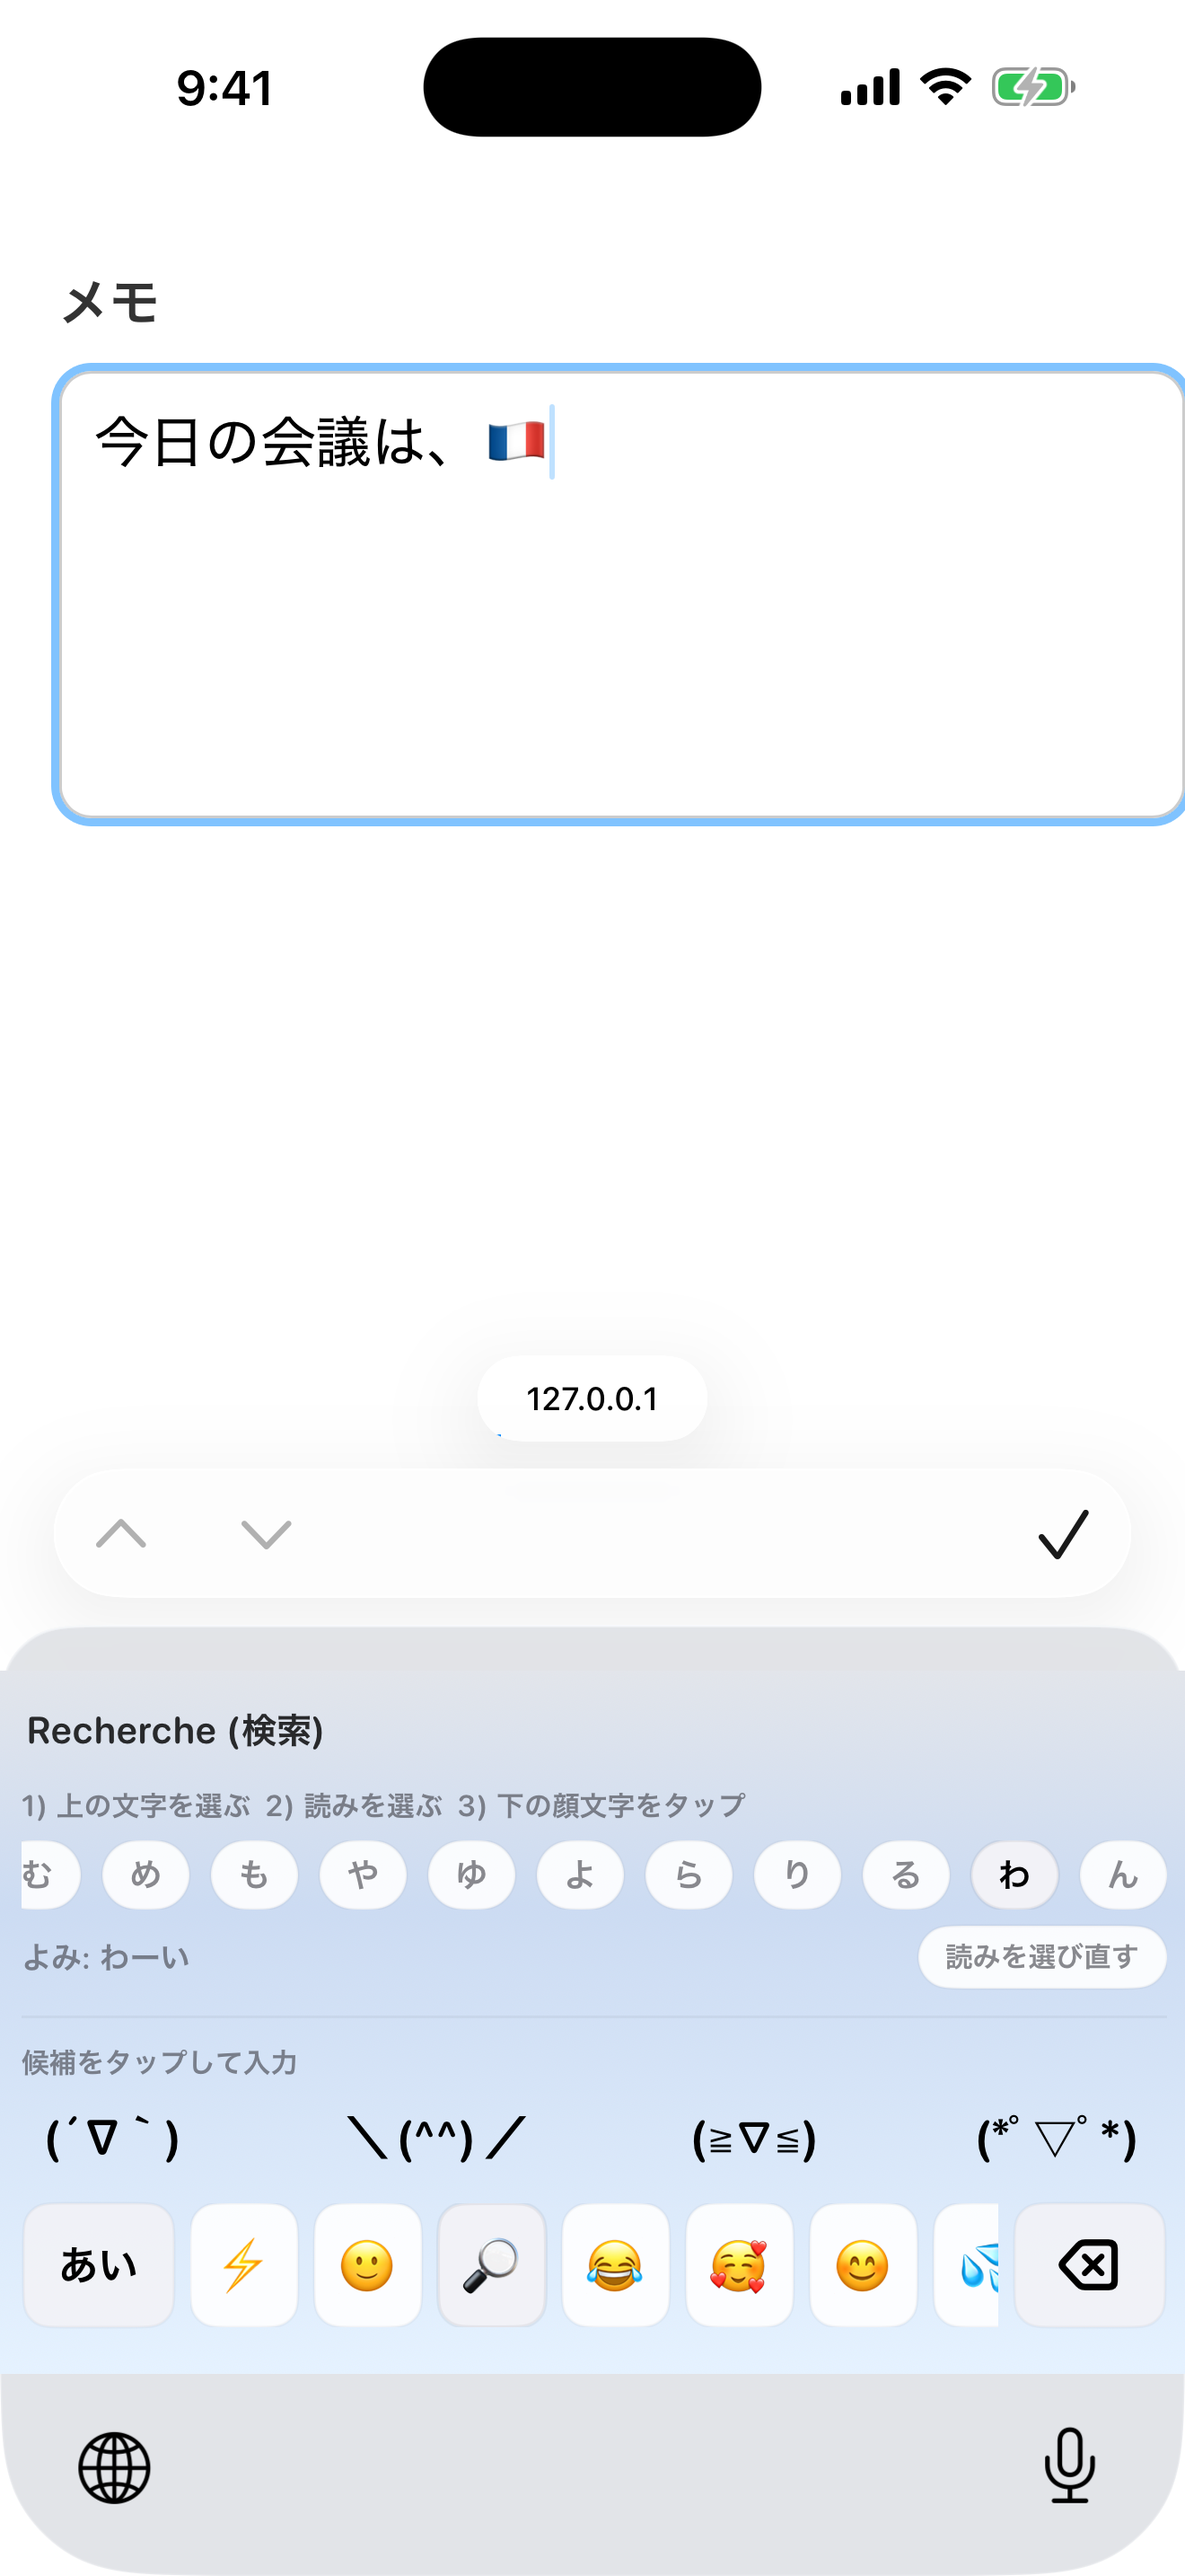
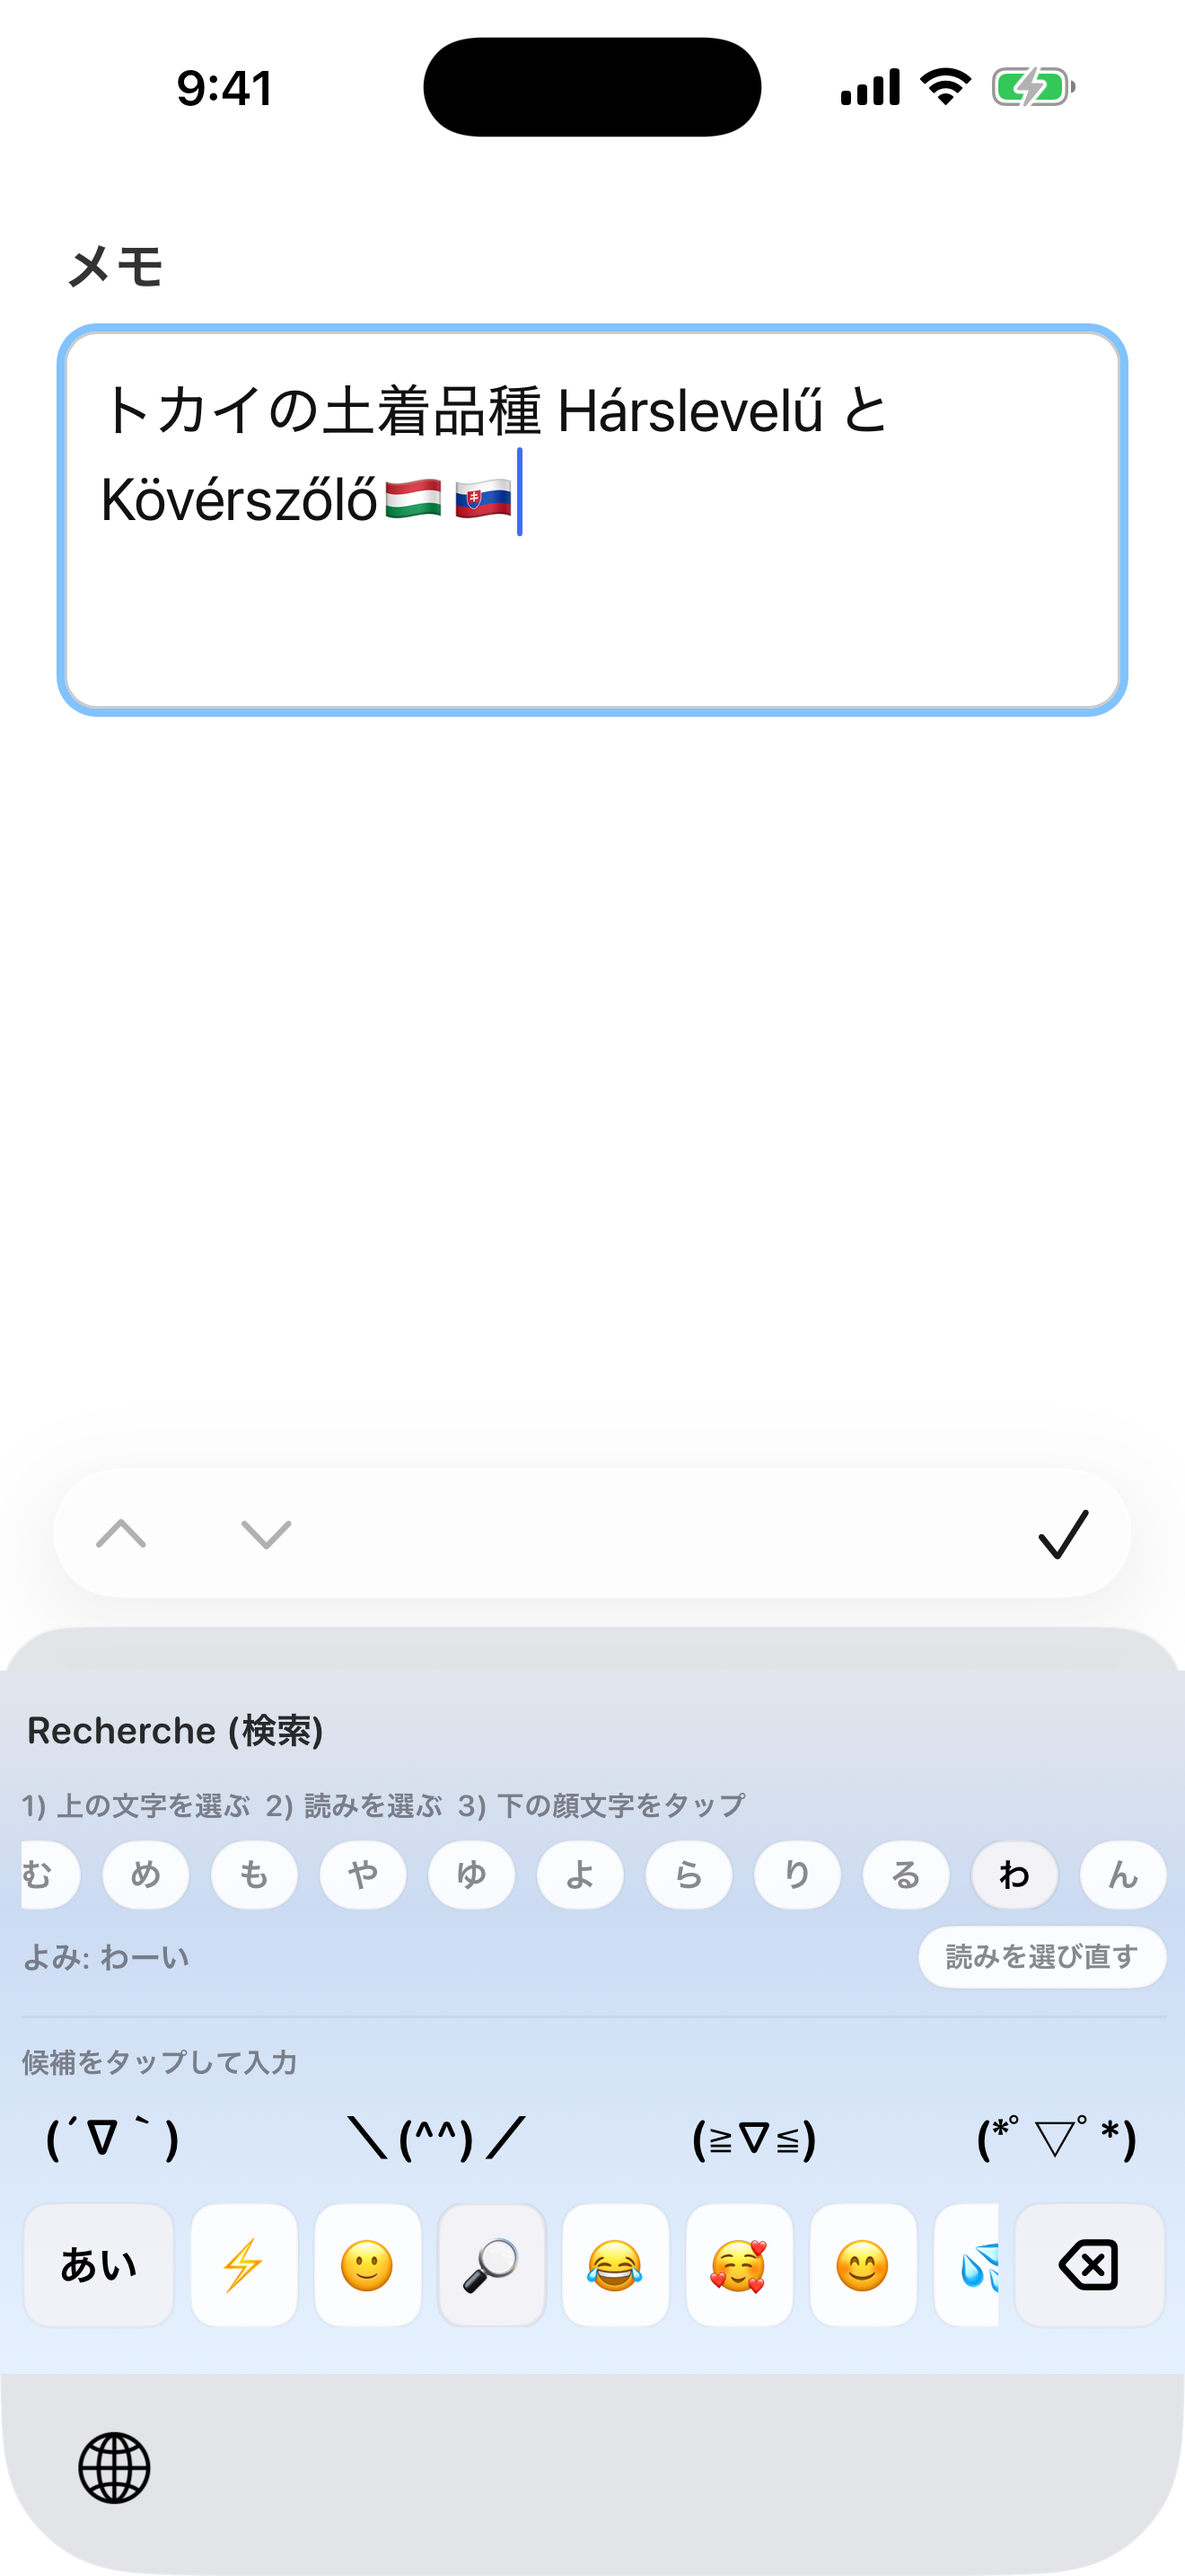
docs(appstore): スクリーンショット6枚を撮り直し(Safari UI・見切れ・マイクを排除)
- ホーム画面に追加した capture-page.html から起動し、127.0.0.1 のピルと Safari の
  ツールバーが写らない状態で撮影。box-sizing 修正でメモ欄の見切れも解消
- 03 は本文に🇭🇺を入れたうえで🇸🇰を長押しし、入力できることとバブルの両方を1枚に
- 05 はカレンダーから単位へ変更(36 200 000 hℓ)。ファイル名も 05-number-unit.png に
- 02 はピンク背景・Apple式フリック・前置修飾・アヒルのキーの状態で撮影(ユーザー指定)
- 撮影時だけ変えた設定は撮影後に既定へ戻した。内訳を計画書に記載

Changed region(s): [[0.0311, 0.0931, 1.0, 0.3414], [0.8697, 0.931, 0.9318, 0.962], [0.497, 0.5275, 0.528, 0.5586]]

diff --git a/appstore/screenshots-plan.md b/appstore/screenshots-plan.md
@@ -8,74 +8,31 @@
 
 ## 撮影手順(シミュレータ)
 
-1. `xcodebuild -scheme écritu -destination 'platform=iOS Simulator,name=iPhone 17 Pro Max' build` して Run(⌘R)
-2. シミュレータの 設定 > 一般 > キーボード > キーボード で écritu を追加(+フルアクセス)
-3. Safari で適当な入力ページを開き、地球儀で écritu に切替
-4. ⌘S(またはFile > Save Screen)で撮影 → `appstore/screenshots/` へ保存
-   命名: `01-kana.png` のように番号+内容
+1. アプリをシミュレータへインストール(`xcrun simctl install <UD> <path>/écritu.app`)
+2. 設定 > 一般 > キーボード で écritu を追加(+フルアクセス)、**音声入力をオフ**(マイクを消す)
+3. 下記「撮影用の入力ページ」をホーム画面に追加し、そのアイコンから起動
+4. 地球儀で écritu に切替 → `xcrun simctl io <UD> screenshot appstore/screenshots/NN-name.png`
 
-## ショットリスト(6枚構成・推奨テーマ: 初期設定のまま)
+## 撮影状態(take 3 = 現行、2026-09-02)
 
-| # | 場面 | 見せるもの | 演出 |
-|---|---|---|---|
-| 01 | かな面+変換候補 | 5×2配列と候補バー | 「きょうのかいぎは」等を入力し連文節候補を表示 |
-| 02 | 読点キーのフリックガイド | ?!・。がかなのまま | 、キーを長押し気味にしてガイド表示の瞬間 |
-| 03 | 絵文字パネル(国旗長押し) | 国旗の国名バブル | 国旗カテゴリーで🇫🇷を押下中 |
-| 04 | 顔文字検索 | 読み→顔文字 | 検索カテゴリーで「わーい」系を表示 |
-| 05 | 書式化数値(カレンダー) | 日付・単位入力 | 数字モードのカレンダー/単位表示 |
-| 06 | 設定アプリ | テーマ/配列のカード | アクセントカラー選択部など彩度のある画面 |
+6枚すべて撮影済み・1320×2868。ホーム画面に追加した `capture-page.html` から起動して撮ったため、
+Safari のドメイン表示ピルもツールバーも写っていない。音声入力はオフでマイクも無し。
 
-- キャプション焼き込み(上部に説明文)を入れる場合は撮影後にこちらで合成可能。
-  まず素の6枚を撮って `appstore/screenshots/` に置いてください。
+| # | ファイル | 内容 |
+|---|---|---|
+| 01 | 01-kana.png | 「トカイの土着品種 Hárslevelű と くゔぇーるすーるー」+ 候補 Kövérszőlő |
+| 02 | 02-comma-flick.png | 読点キーの ? フリックプレビュー(**ピンク背景/Apple式フリック/前置修飾/アヒルのキー**) |
+| 03 | 03-flags.png | 本文に🇭🇺を入れた状態で🇸🇰を長押し(Slovaquie バブル) |
+| 04 | 04-kaomoji-search.png | 顔文字検索 よみ「わーい」の候補 |
+| 05 | 05-number-unit.png | 書式化数値の単位 `36 200 000 hℓ`(sep mil + espace + 接頭辞 h + ℓ) |
+| 06 | 06-settings.png | 設定アプリのアクセントカラー/テーマカラー |
 
-## 状態
+**02 の設定**(撮影時だけ変更し、撮影後に既定へ戻した):
+`keyboardBackgroundTheme=sakura` / `flickDirectionProfile=apple` /
+`kanaModifierPlacement=prefix` / `flickGuideDisplayModeModifier=off`(これでアヒルになる)。
+**05 の設定**: `numberLitreSymbol=script`(ℓ)。製品の初期設定は `l`。
 
-- [x] 6.9インチ 6枚撮影済み(2026-09-01、iPhone 17 Pro Max シミュレータ、1320×2868 確認済み)
-  - `01-kana.png` きょうのかいぎは+連文節候補 / `02-comma-flick.png` 、キーのフリック?プレビュー
-  - `03-flags.png` 🇫🇷長押しFranceバブル / `04-kaomoji-search.png` よみ「わーい」の顔文字候補
-  - `05-number-calendar.png` 書式化数値カレンダー(9月17日) / `06-settings.png` アクセント/テーマカラー
-- テキスト素材は `appstore/metadata.md` に完成済み
-
-## 撮り直し(take 2) — 進行中
-
-- **01〜05 は全部撮り直す**。01/02/03 は一度撮り直したが(マイク非表示・ワイン例文・
-  国旗はハンガリー)、次の2点が残っているため作り直しになる:
-  - 画面中央に Safari の `127.0.0.1` ドメイン表示ピルが写り込んでいる
-    → ホーム画面に追加してスタンドアロン起動で解消(上記「撮影用の入力ページ」)
-  - メモ欄が右にはみ出して見切れている → `box-sizing: border-box` 漏れが原因。修正済み
-- 04(顔文字検索)/ 05(書式化数値)は take 1 のまま(マイク写り込み・旧例文)
-- **05 は場面変更**: カレンダーではなく**単位**にする。本文は
-  「フランスの年間のワイン生産量は、フランス農務省の2025年11月1日時点予測値で約36,200,000 hℓ」で、
-  数値を書式化数値モードで組み立てている場面を撮る。
-  手順: hPaカテゴリー → 接頭辞 h + 単位 ℓ → `36200000` を入力 → sep mil と espace をオン
-  → プレビューが `36,200,000 hℓ` になった状態。桁区切り・接頭辞・単位が1枚に収まる。
-  - **撮影時だけ設定「リットルの記号」を ℓ にする**(製品の初期設定は l)
-  - 「3,620万hℓ」と書けないのは、`万` が書式化数値モードの出力に無く、
-    モード内で一度に組み立てられないため。桁区切りを見せる意図なので算用数字で通す
-  - 数値はユーザー提供。公開前に出典と数字を再確認すること
-- 06 は設定アプリ画面なので撮り直し対象外
-- 国旗は🇫🇷でなく🇭🇺(Hongrie)。Kövérszőlő はハンガリー側トカイのみの品種で、
-  スロヴァキア側トカイの認定品種(Furmint / Lipovina / 黄マスカット)には含まれないため
-- **03 は本文に国旗を入れた状態で撮る**。長押しバブルだけだと「国旗を入力できる」ことが
-  伝わらない。先に🇭🇺を本文へ入力し、そのうえで別の国旗を長押ししてバブルを出した瞬間を撮る
-  (入力できること + 長押しで国名が出ることの両方が1枚に収まる)
-- 撮影中の注意: キーボード拡張が白画面のまま固まることがある。simctl shutdown → boot で復旧する
-  (本文はシミュレータのペーストボードに入れておき、長押し→ペーストで復元すると速い)
-
-## 撮り直し案(実施メモ)
-
-- 下端バーのマイクを消す: シミュレータの 設定 > 一般 > キーボード > 音声入力オフ(06は設定アプリ画面なので対象外)
-- 例文をワインの説明文に変更し、écrituの個性(ワイン語彙+フランス語)を見せる:
-  - 01(例文確定・案A): 「トカイの土着品種 Hárslevelű と Kövérszőlő は、貴腐ワインの補助品種としてフルミント種とブレンドされる。」
-    最後の Kövérszőlő(くゔぇーるすーるー)を変換候補が出ている状態で撮る。
-    読み: はーるしゅれゔぇりゅー → Hárslevelű / くゔぇーるすーるー → Kövérszőlő(いずれもvin.plist実在)。
-    撮影前にエンジンで候補順位を確認する
-  - 追加候補: 欧文入力(azerty/qwerty)で Château の â・é を長押しアクセント入力しているところ、
-    または欧文サジェスト(français 15,000語)が出ているところ。アクサン記号つき文字が
-    そのまま打てることが伝わる構図にする
-  - アクサン多め語の候補(vin.plist実在、読みから変換で見せる):
-    Château Beau-Séjour-Bécot / Château Léoville-Poyferré / Réfrigéré /
-    Fromage à pâte molle à croûte lavée(句として最多5個)
+数値はユーザー提供。公開前に出典と数字を再確認すること。
 
 ## 撮影用の入力ページ
 
